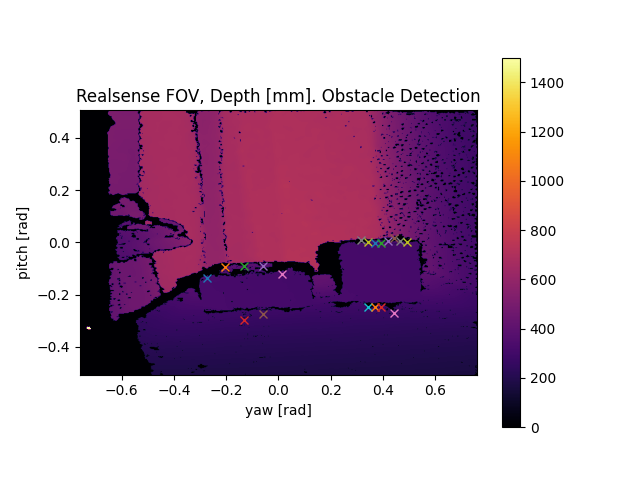
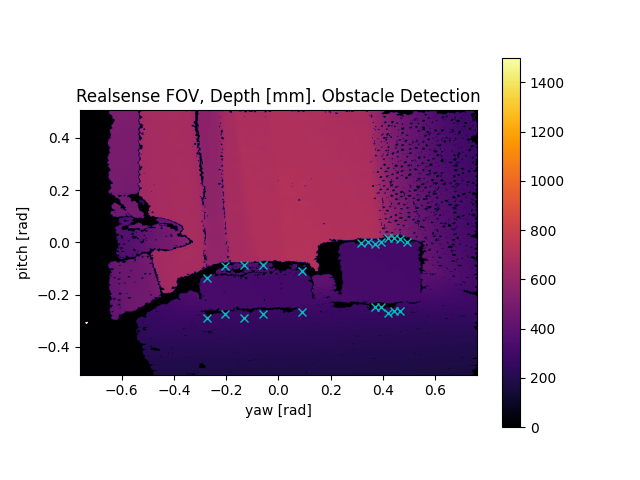
obstacle detection development. size estimation and plotting

diff --git a/HIVE/mapping/mapping.py b/HIVE/mapping/mapping.py
@@ -8,6 +8,7 @@ import argparse
 import imutils
 import sys
 from scipy.signal import find_peaks
+from time import sleep
 
 ######################################
 '''
@@ -156,6 +157,26 @@ def px2rad(px, wp, theta_fov):
 
     return theta
 
+def analyze_obstacle(theta1, theta2, d1, d2):
+    # visual angle of obstacle
+    alpha = theta2 - theta1
+    # if theta2 < 0:
+    #     alpha = abs(theta1) - abs(theta2)
+    # else:
+    #     alpha = abs(theta1) + abs(theta2)
+    # length of face of obstacle
+    f = math.sqrt(d1**2 + d2**2 - 2*d1*d2*math.cos(alpha))
+    # lower internal angle of visual triangle
+    theta3 = math.asin(d2/f*math.sin(alpha))
+    # pitch of obstacle:
+        # 90 deg == 1.5708 rad
+        # =90  is vertical
+        # <90 is leaning toward
+        # >90 is leaning away
+    theta_obs = theta3-theta1
+
+    return f, theta_obs
+
 def main():
     '''
     test files
@@ -174,9 +195,13 @@ def main():
     07  1 vertical   slices of depth AND "deriv" AND slope SMOOTHING comparison: kernels= [5,10,20,40,100]
     08  1 vertical   slices of depth AND "deriv" AND slope SMOOTHING comparison: kernels= [5,10,20]
     09  1 vertical   slices of depth, difference, slope. -> peak finder
-    10
+    10  many vert slices, find peaks (edges in environment) and overlay on depth image
+    11  takes peaks and package into pairs of edge vertices. estimate obstacle size. show on plot
     '''
-    test_case = 10
+    test_case = 11
+    print("**************************")
+    print("*      TEST CASE " + str(test_case) + "      *")
+    print("**************************")
 
     # Configure depth and color streams
     pipeline = rs.pipeline()
@@ -618,27 +643,31 @@ def main():
             plt.show()
 
     elif test_case == 10:
+        # get images
+        image_pair = get_aligned_frame(pipeline)
+        # capture a second time so auto exposure has a chance to activate
+        image_pair = get_aligned_frame(pipeline)
+        depth_image = image_pair[1]
+        color_image = image_pair[0]
+
+        # set camera specs
+        wp = 640
+        hp = 480
+        theta_fov_depth_horiz = math.radians(87)
+        theta_fov_depth_vert = math.radians(58)
+
+        # plot color image
+        plt.imshow(color_image)
+        plt.title('Realsense FOV, Depth [mm]')
+        plt.xlabel('x [px]')
+        plt.ylabel('z [px]')
+        plt.show()
+
         while True:
             # get images
             image_pair = get_aligned_frame(pipeline)
             depth_image = image_pair[1]
             color_image = image_pair[0]
-
-            # set camera specs
-            wp = 640
-            hp = 480
-            theta_fov_depth_horiz = math.radians(87)
-            theta_fov_depth_vert = math.radians(58)
-
-            # plot color image
-            plt.imshow(color_image)
-            plt.title('Realsense FOV, Depth [mm]')
-            plt.xlabel('x [px]')
-            plt.ylabel('z [px]')
-            plt.show()
-
-            # plot depth image
-            plot_image_2d(depth_image, axes="deg")
 
             # convert vertical pixels to headings
             y_array = np.arange(hp)
@@ -650,9 +679,9 @@ def main():
 
             # fig, axs = plt.subplots(2,1)
 
-            # set slice locations
+            # set slice locations (pixels)
             slice_locs = [225,250,275,300,325,350, 430,440,450,460,470,480,490,500]
-            # slice_locs = [480]
+            slice_locs = list(range(0,wp,20))
 
             # plot color image
             plt.imshow(depth_image, cmap='inferno', vmin=0, vmax=1500,
@@ -673,55 +702,156 @@ def main():
                 mask = data[1,:] != 0
                 data = data[:,mask]
 
-                # find slope (proper derivative)
-                slope = np.gradient(data[1,:], data[0,:]) # [mm/rad]
+                # if data is not empty from masking zeros, continue
+                if data.shape[1] > 2:
+                    # find slope (proper derivative)
+                    slope = np.gradient(data[1,:], data[0,:]) # [mm/rad]
 
-                #plot slope
-                # axs[1].plot(np.degrees(data[0,:]), slope, label=str(loc)+' [px], raw')
+                    ##############
+                    # find peaks #
+                    ##############
+                    peaks, _ = find_peaks(slope, height=100, distance=20, prominence=1000)
+                    # peaks is index into slope
+                    # slope is 1D array deriv of data
+                    # data is [rad, depth] pairs
 
-                # plot slice
-                # axs[0].plot(np.degrees(data[0,:]), data[1,:], '.', label=str(loc)+' [px]')
+                    if len(peaks) >= 2:
+                        # we only want two peaks: the bottom and top edges of Obstacle
+                        # therefore if there are extraneous peaks, we slice just the "first" two,
+                        # first with respect to scanning from bottom to top
+                        # since pixel coords go from top to bottom, we take
+                        # the last two peaks instead of the first two
+                        peaks = peaks[-2:]
 
-                ##############
-                # find peaks #
-                ##############
-                peaks, _ = find_peaks(slope, height=100, distance=20, prominence=1000)
-                # peaks is index into slope
-                # slope is 1D array deriv of data
-                # data is [rad, depth] pairs
-                if len(peaks) > 2:
-                    # we only want two peaks: the bottom and top edges of Obstacle
-                    # therefore if there are extraneous peaks, we slice just the "first" two,
-                    # first with respect to scanning from bottom to top
-                    # since pixel coords go from top to bottom, we take
-                    # the last two peaks instead of the first two
-                    peaks = peaks[-2:]
-
-                for peak in peaks:
-                        # ignore peaks that are taller than threshold
-                        if data[0,peak] < math.radians(6):
-                            # convert slice location to radian, this is the x-coord in plot we are looking at
-                            # data[0,peak] is the radian value along the vertical slice that peak occurs at
-                            plt.plot(px2rad(loc, wp, theta_fov_depth_horiz), data[0,peak], "x")
-                # axs[1].plot(np.degrees(data[0,peaks]), slope[peaks], "x")
-
-                # plt.plot(data[0,peaks], slope[peaks], "x")
+                        for peak in peaks:
+                            # ignore peaks that are taller than threshold
+                            if data[0,peak] < math.radians(6):
+                                # convert slice location to radian, this is the x-coord in plot we are looking at
+                                # data[0,peak] is the radian value along the vertical slice that peak occurs at
+                                plt.plot(px2rad(loc, wp, theta_fov_depth_horiz), data[0,peak], "cx")
             plt.show()
 
-            # axs[0].set_xlabel('pitch [deg]')
-            # axs[1].set_xlabel('pitch [deg]')
-            #
-            # axs[0].set_ylabel('depth [mm]')
-            # axs[1].set_ylabel('slope [mm/rad]')
+    elif test_case == 11:
+        # get images
+        image_pair = get_aligned_frame(pipeline)
+        sleep(0.5)
+        # capture a second time so auto exposure has a chance to activate
+        image_pair = get_aligned_frame(pipeline)
+        depth_image = image_pair[1]
+        color_image = image_pair[0]
 
-            # axs[0].title.set_text('Slice depth')
-            # axs[1].title.set_text('Pixel to Pixel change')
-            # axs[2].title.set_text('Slope')
-            # axs[0].title.set_text('Obstacle Analysis: Vertical Depth Slices')
+        # set camera specs
+        wp = 640
+        hp = 480
+        theta_fov_depth_horiz = math.radians(87)
+        theta_fov_depth_vert = math.radians(58)
 
-            # axs[0].legend()
-            # axs[1].legend()
+        # plot color image
+        plt.imshow(color_image)
+        plt.title('Realsense FOV, Depth [mm]')
+        plt.xlabel('x [px]')
+        plt.ylabel('z [px]')
+        plt.show()
 
+        while True:
+            print("----- NEW SCAN -----")
+            # get images
+            image_pair = get_aligned_frame(pipeline)
+            depth_image = image_pair[1]
+            color_image = image_pair[0]
+
+            # convert vertical pixels to headings
+            y_array = np.arange(hp)
+            y_array = px2rad(y_array, hp, theta_fov_depth_vert)
+            # flip orientation because y px index starts at 0 at top and increases
+            # as you move down. want angle to be 0 at level and increase as you
+            # tilt up
+            y_array = np.flip(y_array)
+
+            # set slice locations (pixels)
+            slice_locs = list(range(0,wp,20))
+            slice_locs = [300, 450]
+            # slice_locs = [450]
+
+            # plot depth image
+            plt.imshow(depth_image, cmap='inferno', vmin=0, vmax=1500,
+                extent=[-math.radians(87/2),math.radians(87/2),-math.radians(58/2),math.radians(58/2)])
+            plt.colorbar()
+            plt.title('Realsense FOV, Depth [mm]. Obstacle Detection')
+            plt.xlabel('yaw [rad]')
+            plt.ylabel('pitch [rad]')
+
+            for loc in slice_locs:
+                # print("slice loc: " + str(px2rad(loc, wp, theta_fov_depth_horiz)))
+                # get vertical slice (constant x)fr
+                slice = depth_image[:,loc]
+
+                # put into pairs [rad,depth]
+                data = np.array([y_array, slice])
+
+                # remove zeros
+                mask = data[1,:] != 0
+                data = data[:,mask]
+
+                # if data is not empty from masking zeros, continue
+                if data.shape[1] > 2:
+                    # find slope (proper derivative)
+                    slope = np.gradient(data[1,:], data[0,:]) # [mm/rad]
+
+                    ##############
+                    # find peaks #
+                    ##############
+                    peaks, _ = find_peaks(slope, height=100, distance=20, prominence=1000)
+                    # peaks is index into slope - index 0 is top of image
+                    # slope is 1D array deriv of data
+                    # data is [rad, depth] pairs
+
+                    if len(peaks) >= 2:
+                        # we only want two peaks: the bottom and top edges of Obstacle
+                        # therefore if there are extraneous peaks, we slice just the "first" two,
+                        # first with respect to scanning from bottom to top
+                        # since pixel coords go from top to bottom, we take
+                        # the last two peaks instead of the first two
+                        peaks = peaks[-2:]
+
+                        # peaks[0] is the top edge index
+                        # bump it down a bit to make sure it is on the obstacle face
+                        # and not on the background
+                        peaks[0] += 10
+                        # bump bottom edge up a bit to make sure it is on face
+                        # and not on foreground
+                        peaks[1] -= 10
+
+                        # mask data again
+                        pitch_pair = data[0,peaks]
+                        dist_pair = data[1,peaks]
+
+                        face, theta = analyze_obstacle(pitch_pair[1], pitch_pair[0], dist_pair[1], dist_pair[0])
+                        # print("{pa:.5f}, {pb:.5f} | {da:3.0f}, {db:3.0f} | {f:3.3f}".format(
+                        #     pa = pitch_pair[1],
+                        #     pb = pitch_pair[0],
+                        #     da = dist_pair[1],
+                        #     db = dist_pair[0],
+                        #     f = face))
+
+                        # print face length estimation on depth image 
+                        plt.text(px2rad(loc, wp, theta_fov_depth_horiz), pitch_pair[0], f"{face:3.1f}", color='cyan')
+
+                        # print("face length = " + str(f))
+                        # print("angle = " + str(math.degrees(theta)))
+
+                        for peak in peaks:
+                            # ignore peaks that are taller than threshold
+                            if data[0,peak] < math.radians(6):
+                                # convert slice location to radian, this is the x-coord in plot we are looking at
+                                # data[0,peak] is the radian value along the vertical slice that peak occurs at
+                                plt.plot(px2rad(loc, wp, theta_fov_depth_horiz), data[0,peak], "cx")
+            plt.show()
+            # break
+    # elif test_case ==
+    # elif test_case ==
+    # elif test_case ==
+    # elif test_case ==
 
     # Stop streaming
     pipeline.stop()
